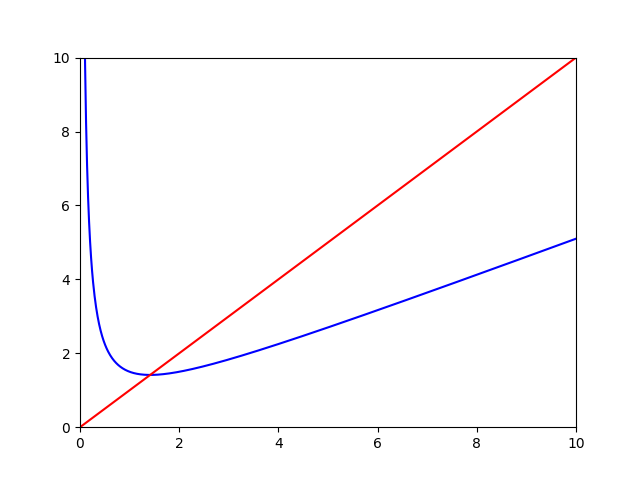
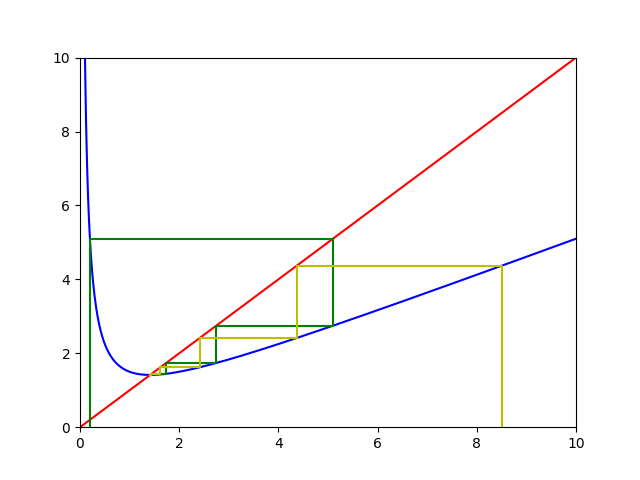
working commit

Changed region(s): [[0.25, 0.6562, 0.5312, 0.7812], [0.1562, 0.4688, 0.5, 0.5], [0.4688, 0.5312, 0.7812, 0.5625]]

diff --git a/hw2.py b/hw2.py
@@ -4,10 +4,6 @@ from decimal import *
 from matplotlib import pyplot as plt
 from math import erf, pi, sqrt, exp
 
-
-
-
-
 # Problem 1     ********************************************************************
 
 def secant(f, x0, x1, epsilon=1e-16, n_max=10**5):
@@ -101,6 +97,8 @@ def fixed_point(x0, foo, a, n):
     xs  = [x0]
     ys = [-100]
     for i in range(n-1):
+        if abs(xs[-1]) > 1000:
+            break
         xs.append(xs[-1])
         ys.append(foo(xs[-1],a))
         xs.append(ys[-1])
@@ -120,19 +118,39 @@ def hw2_p3b():
     plt.ylim(0,10)
     plt.show()
     
-    xs = np.linspace(-2,5,1000)
+    xs = np.linspace(-10,10,1000)
     ys = np.vectorize(foo_4)(xs,2)
     plt.plot(xs,ys, 'b-')
     plt.plot(xs,xs, 'r-')
     fp_xs, fp_ys = fixed_point(.2, foo_4, 2, 10)
     plt.plot(fp_xs, fp_ys, 'g-')
-    fp_xs, fp_ys = fixed_point(2.5, foo_4, 2, 10)
+    fp_xs, fp_ys = fixed_point(3, foo_4, 2, 10)
+    plt.plot(fp_xs, fp_ys, 'c-')
+    fp_xs, fp_ys = fixed_point(2, foo_4, 2, 10)
+    plt.plot(fp_xs, fp_ys, 'm-')
+    fp_xs, fp_ys = fixed_point(3.1, foo_4, 2, 10)
     plt.plot(fp_xs, fp_ys, 'y-')
-    plt.xlim(-2, 5)
-    plt.ylim(-2,5)
+    fp_xs, fp_ys = fixed_point(3.2, foo_4, 2, 10)
+    plt.plot(fp_xs, fp_ys, 'k-')
+    plt.xlim(-5, 5)
+    plt.ylim(-5,5)
     plt.show()
     
     #check for convergence
+    xs = []
+    converges = []
+    for x0 in np.arange(-4,4,.1):
+        fp_xs, fp_ys = fixed_point(x0, foo_4, 2, 10000)
+        xs.append(x0)
+        if abs(fp_xs[-1] - fp_xs[-2]) < 1e-10:
+            converges.append(fp_xs[-1])
+        else:
+            converges.append('diverges')
+    latex_table((xs, converges), ('$x0$', 'converges to'))
+    
+    
+    
+    
     starts = [.0001, 1, 2, 4, 100]
     ends = []
     epsilon = 1e-13

diff --git a/hw2.tex b/hw2.tex
@@ -252,9 +252,33 @@ def my_sqrt(a, x0, epsilon=1e-15, n_max=10**5):
 	\end{align*}
 	as desired. \textbf{explain why cubicly convergent} \\
 	
+	\singlespacing
+	\begin{center}
+		\begin{tabular}{|c|c|}
+			\hline
+			$x0$&converges to\\ \hline
+			-3.2&diverges\\ \hline
+			-3.1&-1.41421356237\\ \hline
+			-3.0&1.41421356237\\ \hline
+			-2.9&1.41421356237\\ \hline
+			-2.5&1.41421356237\\ \hline
+			-2.4&-1.41421356237\\ \hline
+			-0.1&-1.41421356237\\ \hline
+			0.1&1.41421356237\\ \hline
+			2.4&1.41421356237\\ \hline
+			2.5&-1.41421356237\\ \hline
+			3.0&-1.41421356237\\ \hline
+			3.1&1.41421356237\\ \hline
+			3.2&diverges\\ \hline
+			3.3&diverges\\ \hline
+		\end{tabular}
+	\end{center}
+	\doublespacing
+	
 
 \problem{5 (a)}
 	From the table below it can be seen that that the iteration occilates between 0.9948 and 0.0117. Obviously niether of these are a solution to our problem since the next iteration returns the other number for each.
+	\singlespacing
 	\begin{center}
 		\begin{tabular}{|c|c|}
 			\hline
@@ -271,6 +295,7 @@ def my_sqrt(a, x0, epsilon=1e-15, n_max=10**5):
 			30&0.9948153975507384\\ \hline
 		\end{tabular}
 	\end{center}
+	\doublespacing
 	
 \problem{5 (b)}
 	Python implementation of Steffenson's iterative method:
@@ -283,7 +308,8 @@ def hw2_p5b():
 	xs = [0]
 	x = 0
 	ns = [0]
-	#perform first iteration so that error checking can compute
+	#perform first iteration so that 
+#error checking can compute
 	g = foo_6(x)
 	x = x - (g-x)**2/(foo_6(g) -2*g + x)
 	xs.append(x)
